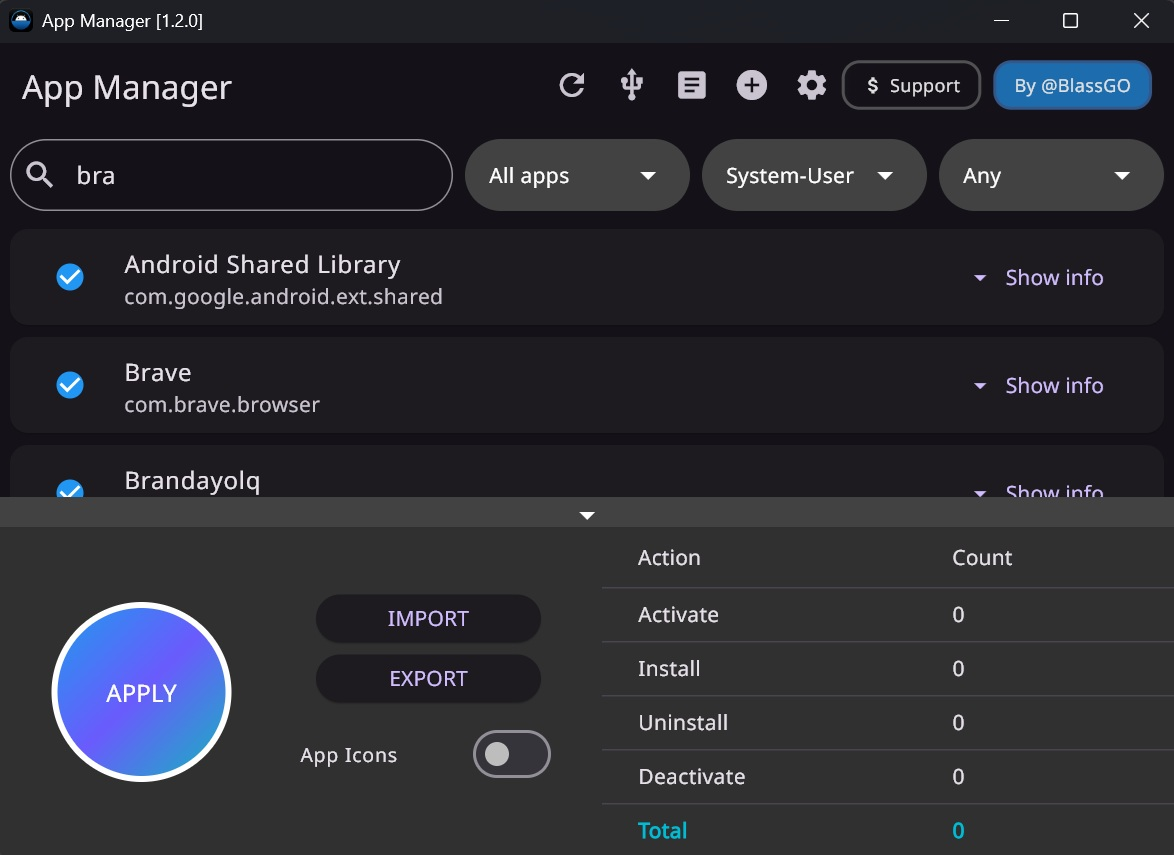
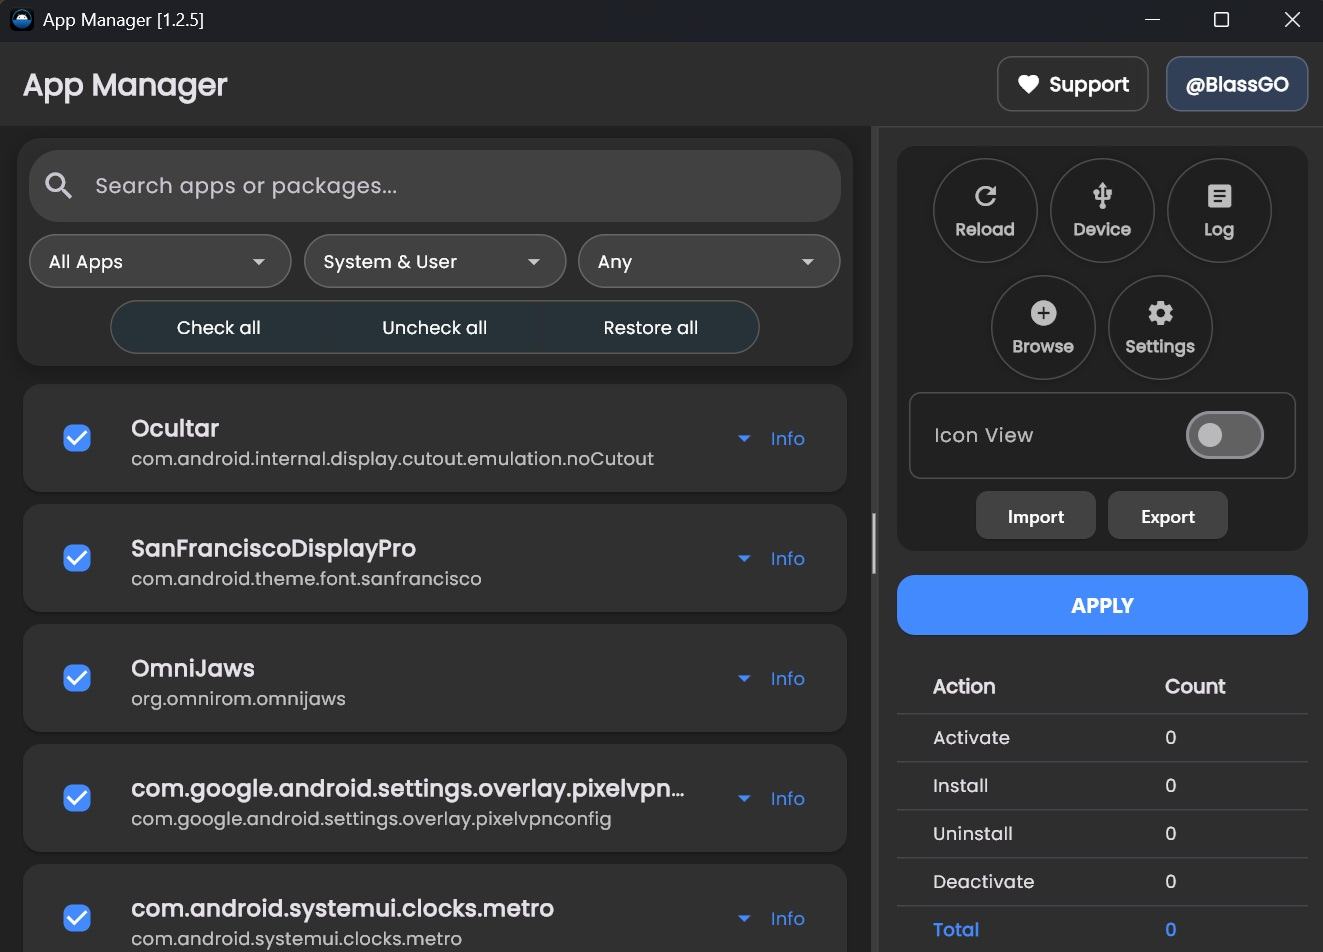
Updated README.md

diff --git a/README.md b/README.md
@@ -1,8 +1,11 @@
+# App Manager GUI
+
 <p align="center"><img src="pages/images/banner.jpg" style="width:600px;height:auto;"></p>
 
 **App Manager GUI** is an open-source Flutter application. It leverages the [App Manager tool](https://github.com/BlassGO/App_Manager), a DalvikVM fragment, to extract detailed app information (icons, package details) without requiring app installation on the device.
 
 ## GUI
+> <p align="center"><img src="pages/images/setup.jpg" style="width:600px;height:auto;"></p>
 > <p align="center"><img src="pages/images/gui.jpg" style="width:600px;height:auto;"></p>
 > <p align="center"><img src="pages/images/gui-icon.jpg" style="width:600px;height:auto;"></p>
 
@@ -10,15 +13,18 @@
 
 | Feature | Description |
 |---------|-------------|
-| **App Listing** | Displays all apps for the current user with ``Label`` (according to the device's language), ``Package``, ``ID``, ``APK path``, and ``Type`` (system/user) |
+| **App Listing** | Displays all apps for the current user with `Label` (according to the device's language), `Package`, `ID`, `APK path`, and `Type` (system/user) |
 | **Icon View** | Shows apps with icons and labels, mimicking an app drawer. Allows icon extraction for specific apps |
 | **Search Filters** | Filter apps by name, package, membership, state (ENABLED/DISABLED/UNINSTALLED), or sort by "Checked," "Unchecked," or "Applicable" states. The "Applicable" filter shows apps that will receive changes before applying them |
 | **App Actions** | Perform **activate**, **deactivate**, **uninstall**, or **install** on multiple apps intuitively |
 | **Device Management** | Switch between multiple devices (USB or wireless, previously connected) |
 | **Log Viewer** | Integrated GUI log viewer for errors and exceptions |
 | **JSON Export** | Export actions as JSON for replication on other devices. Share your own debloat lists |
-| **App List Backup** | Export full app list for precise state replication / restoration. |
+| **App List Backup** | Export full app list for precise state replication/restoration |
 | **Remote App Lists** | Use remote app lists from external repositories to debloat devices directly from the interface |
+| **Multilingual Support** | Interface and alerts/dialogs support multiple languages, including English, Spanish, Portuguese, Russian, Romanian, Indonesian, Japanese, and Chinese |
+| **Language Selector** | Switch between supported languages via a dedicated selector |
+
 
 ## Prerequisites
 - [**ADB**](https://developer.android.com/tools/releases/platform-tools) (Android Debug Bridge)
@@ -29,10 +35,8 @@
 
 ### Windows
 1. **Download**:
-   
    Get `app_manager.zip` from [GitHub Releases](https://github.com/BlassGO/AppManager-GUI/releases).
 2. **Extract**:
-   
    Unzip to a folder (`C:\AppManager` or custom).
 3. **Connect Device**:
    - Enable USB debugging on your Android device.
@@ -40,10 +44,10 @@
 4. **Run**:
    - Double-click `app_manager.exe`.
    - If ADB isn't detected in your system's PATH, select it using the file explorer.
+   - Follow the Setup Wizard to configure language and explore the program.
 
 ### Linux
 1. **Download**:
-   
    Get `app_manager.tar.gz` from [GitHub Releases](https://github.com/BlassGO/AppManager-GUI/releases).
 2. **Extract**:
    ```bash
@@ -58,24 +62,27 @@
    ./app_manager
    ```
    - If ADB isn't detected in your system's PATH, select it using the file explorer.
+   - Follow the Setup Wizard to configure language and explore the program.
 
 ## Configuration
 
 | Setting | Location | Description |
 |---------|----------|-------------|
-| **Never Uninstall** | Settings > Options | Deactivate instead of uninstalling apps. |
-| **Export All Apps** | Settings > Options | Include all apps in JSON export, deducing actions to replicate state. |
-| **Refresh all icons** | Settings > Options | Icons are cached per device. This option forces a full refresh, ensuring all app icons are always the latest, but it impacts performance. |
-| **TCP/IP** | Settings > TCP/IP | Configure wireless device connections (IP/port). |
-| **Select ADB** | Settings > Actions | Change the path from which the ADB executable is sourced. |
+| **Never Uninstall** | Settings > Options | Deactivate instead of uninstalling apps |
+| **Export All Apps** | Settings > Options | Include all apps in JSON export, deducing actions to replicate state |
+| **Refresh All Icons** | Settings > Options | Icons are cached per device. This option forces a full refresh, ensuring all app icons are always the latest, but it impacts performance |
+| **TCP/IP** | Settings > TCP/IP | Configure wireless device connections (IP/port) |
+| **Select ADB** | Settings > Actions | Change the path from which the ADB executable is sourced |
+| **Language** | Settings > Language | Select preferred language for the interface and alerts |
 
 ## Usage Tips
+
 - **Multi-Select**: Checking or unchecking apps is all you need. Based on the current state of the app, all active apps will be checked, and all inactive or uninstalled apps will be unchecked. This way, you can reactivate or reinstall an app simply by checking it, or uninstall/deactivate an app by unchecking it:
   <p align="center"><img src="pages/images/multi-select.jpg" style="width:600px;height:auto;"></p>
 
-- **Show info**: Get more app info quickly:
+- **Show Info**: Get more app info quickly:
   <p align="center"><img src="pages/images/show-info.jpg" style="width:600px;height:auto;"></p>
-  
+
 - **Logs**: Check the log viewer for troubleshooting:
   <p align="center"><img src="pages/images/log-viewer.jpg" style="width:600px;height:auto;"></p>
 
@@ -87,42 +94,35 @@
 
 ## Contributing
 
-1. Create your repository
-   
-   Set up a new repo on GitHub with a clear name and description. [Click here for an example](https://github.com/AppManager-Repo/Samsung-OneUI)
-   
-   **NOTE:** If you want to preserve your repository's name, you can check existing repositories to avoid conflicts; otherwise, the name may be slightly modified if it conflicts with an existing one. [Check current repos](https://github.com/orgs/AppManager-Repo/repositories)
+1. **Create Your Repository**:
+   Set up a new repo on GitHub with a clear name and description. [Click here for an example](https://github.com/AppManager-Repo/Samsung-OneUI).
+   **NOTE**: If you want to preserve your repository's name, check existing repositories to avoid conflicts; otherwise, the name may be slightly modified if it conflicts with an existing one. [Check current repos](https://github.com/orgs/AppManager-Repo/repositories).
 
-1. Add **apps.json** file with packages and actions
-   
-   This file can be automatically generated by exporting actions from the tool before applying changes
-   
-   **NOTE:** The file is required to be named `apps.json` and must exist in the main branch
+2. **Add `apps.json` File with Packages and Actions**:
+   This file can be automatically generated by exporting actions from the tool before applying changes.
+   **NOTE**: The file must be named `apps.json` and exist in the main branch.
 
-```json
-[
-  {
-    "package": "com.google.ar.core",
-    "action": "uninstall"
-  },
-  {
-    "package": "com.microsoft.skydrive",
-    "action": "uninstall"
-  }
-]
-```
+   ```json
+   [
+     {
+       "package": "com.google.ar.core",
+       "action": "uninstall"
+     },
+     {
+       "package": "com.microsoft.skydrive",
+       "action": "uninstall"
+     }
+   ]
+   ```
 
-1. Write **README.md** (optional)
-   
-   Add a README.md for more details about your list
+3. **Write `README.md` (Optional)**:
+   Add a README.md for more details about your list.
 
-2. Share your link
-   
-   Send me the repository link. [Contact me](https://t.me/blassgo)
+4. **Share Your Link**:
+   Send the repository link. [Contact me](https://t.me/blassgo).
 
-3. Collaborate
-   
-   I'll review, clone, and grant you privileges so your list can be accessible directly from Android App Manager for everyone (be careful, damage reports could lead to removal)
+5. **Collaborate**:
+   Your repository will be reviewed, cloned, and granted privileges so your list can be accessible directly from Android App Manager for everyone. Be cautious, as damage reports could lead to removal.
 
    <p align="center"><img src="pages/images/remote.jpg" style="width:600px;height:auto;"></p>
 
@@ -130,6 +130,6 @@
 - [BlassGO](https://github.com/BlassGO): Creator of App Manager for DalvikVM and Android App Manager GUI.
 
 ## License
-> **Android App Manager GUI** is distributed under the GNU General Public License version 3.0 (``GPLv3``). This means that anyone can use, modify and distribute the software as long as they comply with the terms of the license.
+> **Android App Manager GUI** is distributed under the GNU General Public License version 3.0 (`GPLv3`). This means that anyone can use, modify, and distribute the software as long as they comply with the terms of the license.
 
   **->** See the [LICENSE](./LICENSE) file for more information on the license terms and conditions.
